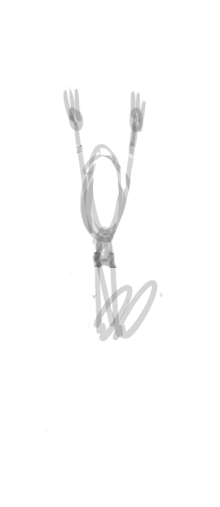
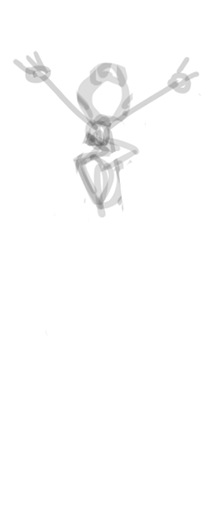
Separated jump properly with new KMA features

Changed region(s): [[0.0545, 0.0888, 0.9, 0.6805]]

diff --git a/src/animation.cpp b/src/animation.cpp
@@ -9,12 +9,6 @@
 // TODO plz standardize file paths
 #define PATH_MAX_LENGTH 128
 
-enum SplitStringCode
-{
-	SPLIT_STRING_SUCCESS,
-	SPLIT_STRING_END
-};
-
 static bool32 ReadElementInSplitString(const char* string, int stringLength, char separator,
 	int* elementLength, const char** next)
 {
@@ -43,9 +37,13 @@ Vec2 AnimatedSprite::Update(float32 deltaTime,
 		
 		int* exitToFrame = activeAnim->frameExitTo[activeFrame].GetValue(nextAnimations[i]);
 		if (exitToFrame != nullptr) {
+            Vec2 rootMotionPrev = activeAnim->frameRootMotion[activeFrame];
 			activeAnimation = nextAnimations[i];
 			activeFrame = *exitToFrame;
 			activeFrameRepeat = 0;
+
+            activeAnim = animations.GetValue(activeAnimation);
+            rootMotion += (activeAnim->frameRootMotion[activeFrame] - rootMotionPrev);
 		}
 	}
 
@@ -58,7 +56,7 @@ Vec2 AnimatedSprite::Update(float32 deltaTime,
 			activeFrame = (activeFrame + 1) % activeAnim->numFrames;
 			activeFrameRepeat = 0;
 
-			rootMotion = activeAnim->frameRootMotion[activeFrame]
+			rootMotion += activeAnim->frameRootMotion[activeFrame]
 				- activeAnim->frameRootMotion[activeFramePrev];
 		}
 	}
@@ -131,7 +129,7 @@ bool32 LoadAnimatedSprite(const ThreadContext* thread, const char* filePath,
 		const char* value;
 		int valueI;
 		TrimWhitespace(valueBuffer, valueLength, &value, &valueI);
-		DEBUG_PRINT("keyword: %.*s\nvalue: %.*s\n", keywordI, keyword, valueI, value);
+		// DEBUG_PRINT("keyword: %.*s\nvalue: %.*s\n", keywordI, keyword, valueI, value);
 
 		// TODO catch errors in order of keywords (e.g. dir should be first after anim)
 		if (StringCompare(keyword, "anim", 4)) {
@@ -298,14 +296,12 @@ bool32 LoadAnimatedSprite(const ThreadContext* thread, const char* filePath,
 					DEBUG_PRINT("Animation file missing root motion entry (%s)\n", filePath);
 					return false;
 				}
-				DEBUG_PRINT("element: %.*s (%d)\n", elementLength, element, elementLength);
 
 				// Parse root motion coordinate pair
 				Vec2Int rootPos;
 				const char* trimmed;
 				int trimmedLength;
 				TrimWhitespace(element, elementLength, &trimmed, &trimmedLength);
-				DEBUG_PRINT("trimmed: %.*s (%d)\n", trimmedLength, trimmed, trimmedLength);
 
 				int trimmedElementLength;
 				const char* trimmedNext;
@@ -349,6 +345,11 @@ bool32 LoadAnimatedSprite(const ThreadContext* thread, const char* filePath,
 				element = next;
 			}
 		}
+        else if (StringCompare(keyword, "start", 5)) {
+            HashKey startAnim;
+            startAnim.WriteString(value, valueI);
+            outAnimatedSprite.activeAnimation = startAnim;
+        }
 		else if (StringCompare(keyword, "//", 2)) {
 			// Comment, ignore
 		}
@@ -370,32 +371,48 @@ bool32 LoadAnimatedSprite(const ThreadContext* thread, const char* filePath,
 
 	DEBUGPlatformFreeFileMemory(thread, &animFile);
 
-	outAnimatedSprite.activeAnimation = currentAnimKey;
 	outAnimatedSprite.activeFrame = 0;
 	outAnimatedSprite.activeFrameRepeat = 0;
 	outAnimatedSprite.activeFrameTime = 0.0f;
 
-	// TODO fix. add ability to iterate over all hashmap?
-#if 0
-	for (int a = 0; a < SPRITE_MAX_ANIMATIONS; a++) {
-		Animation* animation = outAnimatedSprite.animations[a];
-		for (int f = 0; f < animation.numFrames; f++) {
-			for (int j = 0; j < SPRITE_MAX_ANIMATIONS; j++) {
-				int exitToFrame = animation.frameExitTo[f][j];
-				if (exitToFrame >= 0) {
-					if (j >= outAnimatedSprite.numAnimations) {
-						DEBUG_PRINT("Animation file exit-to animation out of bounds %d (%s)\n",
-							j, filePath);
-					}
-					if (exitToFrame >= outAnimatedSprite.animations[j].numFrames) {
-						DEBUG_PRINT("Animation file exit-to frame out of bounds %d (%s)\n",
-							exitToFrame, filePath);
-					}
-				}
-			}
-		}
-	}
-#endif
+    // TODO maybe provide a friendlier way of iterating through HashTable
+    const HashTable<Animation>* animTable = &outAnimatedSprite.animations;
+    for (uint32 k = 0; k < animTable->capacity; k++) {
+        const HashKey* animKey = &animTable->pairs[k].key;
+        if (animKey->length == 0) {
+            continue;
+        }
+
+        const Animation* anim = &animTable->pairs[k].value;
+        for (int f = 0; f < anim->numFrames; f++) {
+            const HashTable<int>* frameExitToTable = &anim->frameExitTo[f];
+            for (uint32 j = 0; j < frameExitToTable->capacity; j++) {
+                const HashKey* toAnimKey = &frameExitToTable->pairs[j].key;
+                if (toAnimKey->length == 0) {
+                    continue;
+                }
+
+                int* exitToFrame = frameExitToTable->GetValue(*toAnimKey);
+                if (exitToFrame != nullptr && *exitToFrame >= 0) {
+                    /*DEBUG_PRINT("Animation transition: %.*s (%d) -> %.*s (%d)\n",
+                        animKey->length, animKey->string, f,
+                        toAnimKey->length, toAnimKey->string, *exitToFrame);*/
+
+                    const Animation* toAnim = animTable->GetValue(*toAnimKey);
+                    if (toAnim == nullptr) {
+                        DEBUG_PRINT("Animation file non-existent exit-to animation %.*s (%s)\n",
+                            toAnimKey->length, toAnimKey->string, filePath);
+                        return false;
+                    }
+                    if (*exitToFrame >= toAnim->numFrames) {
+                        DEBUG_PRINT("Animation file exit-to frame out of bounds %d (%s)\n",
+                            *exitToFrame, filePath);
+                        return false;
+                    }
+                }
+            }
+        }
+    }
 
 	return true;
 }

diff --git a/src/main.cpp b/src/main.cpp
@@ -197,14 +197,18 @@ void UpdateTown(GameState* gameState, float32 deltaTime, const GameInput* input)
 	PlayerMovementInput(gameState, deltaTime, input);
 #endif
 
-	// TODO ideally animation IDs would be strings
 	HashKey nextAnims[4];
 	int numNextAnims = 1;
 	nextAnims[0].WriteString("Idle");
 	if (gameState->playerState == PLAYER_STATE_JUMPING) {
 		numNextAnims = 1;
-		nextAnims[0].WriteString("Jump");
+        nextAnims[0].WriteString("Jump");
 	}
+    else if (gameState->playerState == PLAYER_STATE_FALLING) {
+        numNextAnims = 2;
+        nextAnims[0].WriteString("Fall");
+        nextAnims[1].WriteString("Land");
+    }
 	else if (gameState->playerState == PLAYER_STATE_GROUNDED && gameState->playerVel.x != 0) {
 		numNextAnims = 1;
 		nextAnims[0].WriteString("Walk");

diff --git a/src/animation.h b/src/animation.h
@@ -19,7 +19,6 @@ struct Animation
     Vec2 frameRootMotion[ANIMATION_MAX_FRAMES];
     Vec2 frameRootAnchor[ANIMATION_MAX_FRAMES];
     HashTable<int> frameExitTo[ANIMATION_MAX_FRAMES];
-	//int frameExitTo[ANIMATION_MAX_FRAMES][SPRITE_MAX_ANIMATIONS];
 };
 
 struct AnimatedSprite
